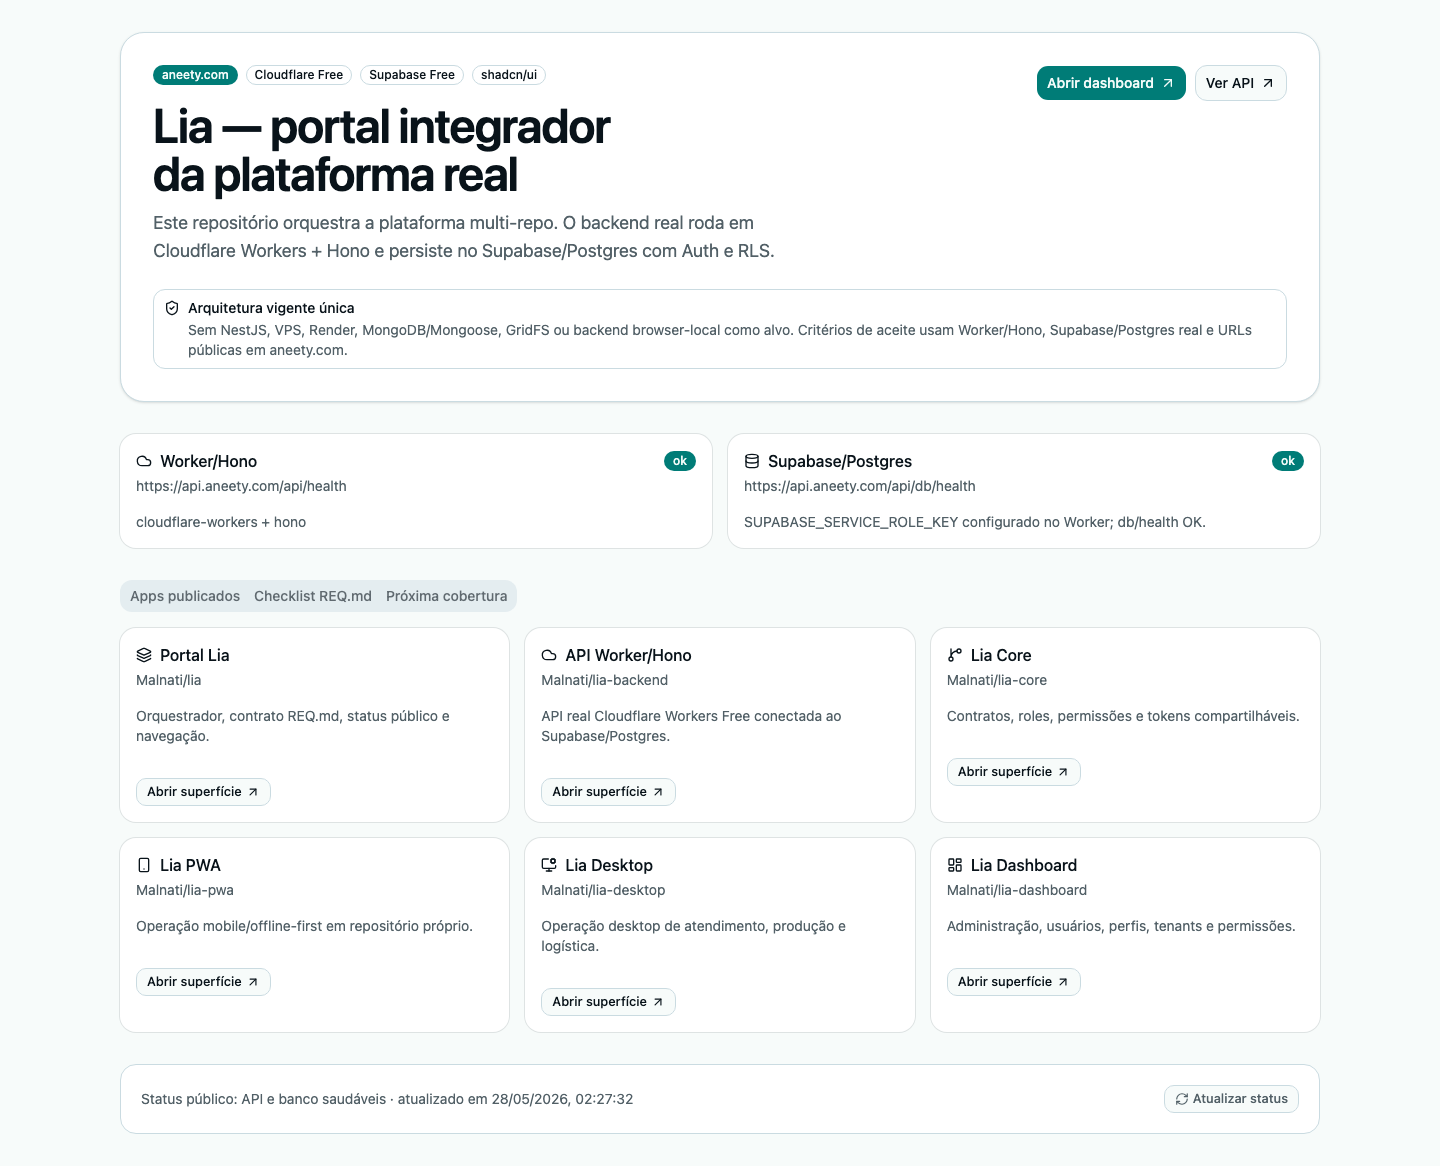
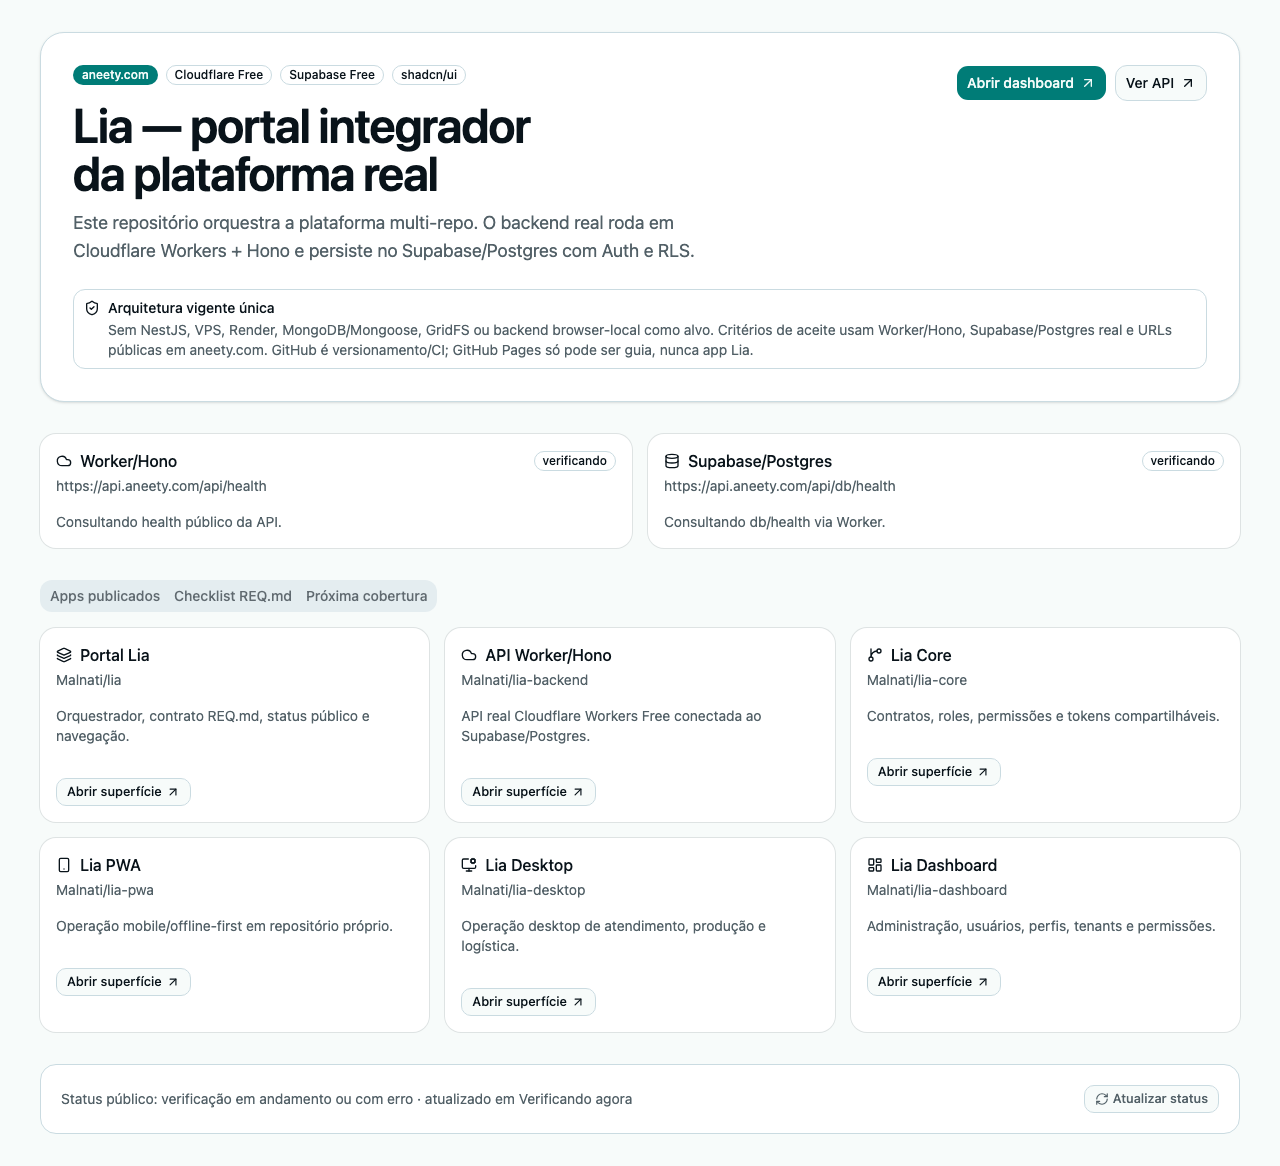
test(runtime): enforce Cloudflare frontend contract

diff --git a/tests/e2e/lia-real-pages.spec.ts b/tests/e2e/lia-real-pages.spec.ts
@@ -7,6 +7,8 @@ const publicApps = [
   { name: 'dashboard', url: 'https://dashboard.aneety.com/', text: /Lia Dashboard/i }
 ];
 
+const forbiddenGitHubRuntime = /github\.io|gh-pages|pages\.github/i;
+
 test('validates the published portal and real Worker health on aneety.com', async ({ page, request }) => {
   await page.goto('/');
 
@@ -28,6 +30,9 @@ test('validates the published portal and real Worker health on aneety.com', asyn
   await page.getByRole('tab', { name: 'Próxima cobertura' }).click();
   await expect(page.getByText('Estados visíveis shadcn para loading, erro, vazio e sucesso.')).toBeVisible();
   await page.getByRole('tab', { name: 'Apps publicados' }).click();
+  for (const href of await page.locator('a').evaluateAll((links) => links.map((link) => link.href))) {
+    expect(href).not.toMatch(forbiddenGitHubRuntime);
+  }
 
   const health = await request.get('https://api.aneety.com/api/health');
   await expect(health).toBeOK();
@@ -45,8 +50,12 @@ test('validates the published portal and real Worker health on aneety.com', asyn
 
 for (const app of publicApps) {
   test(`validates published ${app.name} surface on aneety.com`, async ({ request }) => {
+    expect(app.url).not.toMatch(forbiddenGitHubRuntime);
+    expect(new URL(app.url).hostname).toMatch(/(^|\.)aneety\.com$/);
     const response = await request.get(app.url);
     await expect(response).toBeOK();
+    expect(response.url()).not.toMatch(forbiddenGitHubRuntime);
+    expect(new URL(response.url()).hostname).toMatch(/(^|\.)aneety\.com$/);
     const body = await response.text();
     expect(body).toMatch(app.text);
   });

diff --git a/apps/web/src/App.tsx b/apps/web/src/App.tsx
@@ -99,7 +99,8 @@ const requirements = [
   'API real Cloudflare Workers Free + Hono em api.aneety.com.',
   'Frontends React/Vite/TypeScript/Tailwind com shadcn/ui por repositório.',
   'Publicação independente por repo em aneety.com, sem Containers, VPS ou serviços pagos.',
-  'E2E somente contra URLs públicas aneety.com.'
+  'E2E somente contra URLs públicas aneety.com.',
+  'GitHub é versionamento/CI; GitHub Pages só pode ser guia, nunca app Lia.'
 ];
 
 const nextCoverage = [
@@ -206,7 +207,7 @@ export default function App() {
             <ShieldCheck />
             <AlertTitle>Arquitetura vigente única</AlertTitle>
             <AlertDescription>
-              Sem NestJS, VPS, Render, MongoDB/Mongoose, GridFS ou backend browser-local como alvo. Critérios de aceite usam Worker/Hono, Supabase/Postgres real e URLs públicas em aneety.com.
+              Sem NestJS, VPS, Render, MongoDB/Mongoose, GridFS ou backend browser-local como alvo. Critérios de aceite usam Worker/Hono, Supabase/Postgres real e URLs públicas em aneety.com. GitHub é versionamento/CI; GitHub Pages só pode ser guia, nunca app Lia.
             </AlertDescription>
           </Alert>
         </header>

diff --git a/apps/web/src/App.test.tsx b/apps/web/src/App.test.tsx
@@ -1,4 +1,4 @@
-import { render, screen, waitFor } from '@testing-library/react';
+import { fireEvent, render, screen, waitFor } from '@testing-library/react';
 import { afterEach, beforeEach, describe, expect, it, vi } from 'vitest';
 import App from './App';
 
@@ -63,6 +63,14 @@ describe('Lia portal integrador', () => {
       'https://dashboard.aneety.com/'
     ]) {
       expect(document.querySelector(`a[href="${href}"]`)).toBeTruthy();
+    }
+
+    fireEvent.click(screen.getByRole('tab', { name: 'Checklist REQ.md' }));
+    await waitFor(() =>
+      expect(screen.getByText(/GitHub é versionamento\/CI; GitHub Pages só pode ser guia, nunca app Lia/i)).toBeInTheDocument()
+    );
+    for (const link of Array.from(document.querySelectorAll('a[href]'))) {
+      expect(link.getAttribute('href')).not.toMatch(/github\.io|gh-pages/i);
     }
   });
 });

diff --git a/REQ.md b/REQ.md
@@ -10,7 +10,7 @@ Link de referência inicial: <https://chatgpt.com/share/6a16552b-9da0-83e9-be3f-
 
 `REQ.md` é a fonte de verdade da plataforma Lia. Em caso de divergência entre código, README, automações, testes ou deploys, este arquivo prevalece.
 
-A decisão vigente é única: **Lia deve usar Supabase/Postgres real, Supabase Auth, API real em Cloudflare Workers Free + Hono, frontends estáticos no Cloudflare Pages Free e domínios sob `aneety.com`**. Definições anteriores de protótipo browser-local, MongoDB/Mongoose, NestJS, VPS, Render ou GitHub Pages como arquitetura final estão encerradas. Critérios de aceite devem validar Supabase/Postgres real, Worker `lia-backend` em `https://api.aneety.com`, Cloudflare Pages em `aneety.com` e publicação por repositório.
+A decisão vigente é única: **Lia deve usar Supabase/Postgres real, Supabase Auth, API real em Cloudflare Workers Free + Hono, frontends estáticos no Cloudflare Pages Free e domínios sob `aneety.com`**. GitHub é permitido apenas para versionamento, revisão, PRs e CI. GitHub Pages não pode servir aplicativo, frontend operacional, smoke ou E2E da Lia; se existir, deve publicar somente guias de usuário/documentação. Definições anteriores de protótipo browser-local, MongoDB/Mongoose, NestJS, VPS, Render ou GitHub Pages como arquitetura final estão encerradas. Critérios de aceite devem validar Supabase/Postgres real, Worker `lia-backend` em `https://api.aneety.com`, Cloudflare Pages em `aneety.com` e publicação por repositório.
 
 Atualização operacional de 2026-05-27: o projeto Supabase `mqxwdyhtsvzzehmdfhtj` está conectado ao Codex via MCP usando `SUPABASE_KEY` como PAT local (`bearer_token_env_var`, sem OAuth obrigatório). O banco real recebeu as migrations `0001_initial_schema`, `0002_harden_database_functions` e `0003_add_foreign_key_indexes`. O monitoramento deve tratar esse estado como baseline vigente, não como experimento.
 
@@ -48,6 +48,14 @@ Todos os repositórios devem existir, ser clonados e ser publicados a partir dos
 - `/Users/mal/GitHub/malnati/lia-pwa` — operação mobile/PWA.
 
 Cada projeto deve ser implementado, testado, commitado, enviado e publicado no seu respectivo repositório. O repositório `lia` não deve voltar a concentrar backend, core, dashboard, desktop ou PWA como implementação principal; ele orquestra a plataforma e aponta para os demais apps.
+
+Runtime público obrigatório:
+
+- Aplicação/Frontends/Core: somente Cloudflare Pages Free em domínios `*.aneety.com`.
+- API: somente Cloudflare Workers Free em `https://api.aneety.com`.
+- Código-fonte, PRs e CI: GitHub.
+- Guias de usuário/documentação: GitHub Pages pode existir apenas se não servir app, bundle React/Vite, fluxo operacional, smoke ou E2E.
+- Qualquer URL `github.io`, branch `gh-pages` ou workflow GitHub Pages que publique app é lacuna bloqueante de arquitetura.
 
 ## Stack alvo
 
@@ -334,6 +342,13 @@ Deploy esperado por repo estático:
 - `lia-desktop` → Cloudflare Pages project `lia-desktop`, domínio `desktop.aneety.com`.
 - `lia-dashboard` → Cloudflare Pages project `lia-dashboard`, domínio `dashboard.aneety.com`.
 
+GitHub não é runtime de frontend. Regras:
+
+- Não publicar `lia`, `lia-core`, `lia-pwa`, `lia-desktop` ou `lia-dashboard` como app no GitHub Pages.
+- Não aceitar `github.io`, `gh-pages` ou GitHub Pages app como URL pública, smoke, preview de aceite ou destino de E2E.
+- Se algum repositório mantiver GitHub Pages, o conteúdo deve ser guia de usuário/documentação, com links de uso apontando para `*.aneety.com`.
+- Workflows GitHub Actions podem buildar/testar/deployar para Cloudflare; não podem usar ações de deploy GitHub Pages para apps.
+
 Deploy esperado do backend:
 
 - `lia-backend` → Cloudflare Worker `lia-backend`, custom domain `api.aneety.com`.
@@ -375,6 +390,7 @@ Backend/Supabase:
 E2E publicado:
 
 - E2E alvo deve usar apenas URLs publicadas em `aneety.com` e API/Supabase real;
+- E2E deve falhar se qualquer app, link de navegação, variável de ambiente ou resposta publicada apontar para `github.io`, `gh-pages` ou GitHub Pages como runtime;
 - testes que dependam de rotas, modos ou adaptadores legados do protótipo browser-local não contam como cobertura vigente e devem ser migrados/removidos gradualmente;
 - portal abre todos os links em `aneety.com`;
 - login Supabase;
@@ -399,8 +415,9 @@ O monitoramento deve:
 7. Priorizar lacunas de arquitetura, banco, RLS, migrations, secrets Cloudflare, Worker API e design system shadcn antes de novos E2E.
 8. Não declarar 100% sem evidência objetiva por arquivo/linha, comando, MCP output, URL, workflow ou screenshot.
 9. Validar publicação por repositório: `lia` → `https://aneety.com`, `lia-backend` → `https://api.aneety.com`, `lia-core` → `https://core.aneety.com`, `lia-pwa` → `https://pwa.aneety.com`, `lia-desktop` → `https://desktop.aneety.com` e `lia-dashboard` → `https://dashboard.aneety.com`.
-10. Se faltarem DNS, routes, secrets Cloudflare ou acesso Supabase, registrar bloqueio objetivo e implementar apenas partes sem segredo: REQ, scaffolds, migrations SQL, tipos, testes unitários, shadcn config e docs.
-11. Só ampliar E2E quando REQ, docs, screenshots, smoke, Supabase advisors, Cloudflare deploy, shadcn/design system e E2E vigente estiverem verdes.
+10. Executar grep/validação por `github.io`, `GitHub Pages` e `gh-pages`; qualquer uso como runtime de app bloqueia conclusão. Usos documentais devem declarar explicitamente que GitHub Pages é apenas guia de usuário/documentação.
+11. Se faltarem DNS, routes, secrets Cloudflare ou acesso Supabase, registrar bloqueio objetivo e implementar apenas partes sem segredo: REQ, scaffolds, migrations SQL, tipos, testes unitários, shadcn config e docs.
+12. Só ampliar E2E quando REQ, docs, screenshots, smoke, Supabase advisors, Cloudflare deploy, shadcn/design system e E2E vigente estiverem verdes.
 
 ## Histórico removido do aceite vigente
 

diff --git a/README.md b/README.md
@@ -14,6 +14,8 @@
 
 > Decisão vigente: Cloudflare Pages Free para frontends estáticos, Cloudflare Workers Free + Hono para API, Supabase/Postgres Free para base real. Não usar NestJS, VPS, Render, MongoDB ou mock browser-side como arquitetura alvo.
 
+> GitHub é somente versionamento, PR e CI. GitHub Pages não é runtime de aplicativo Lia; se existir em algum repositório, deve servir apenas guias de usuário/documentação que apontam os apps reais para `*.aneety.com`.
+
 ## Arquitetura alvo
 
 - `Malnati/lia`: portal orquestrador/integrador em `aneety.com` e fonte do contrato `REQ.md`.
@@ -35,6 +37,13 @@ Cada projeto deve ser desenvolvido, testado, commitado, enviado e publicado no s
 - `lia-pwa` — operação mobile/PWA em `https://pwa.aneety.com/`.
 
 O repositório `lia` não deve concentrar backend, core, dashboard, desktop ou PWA como implementação principal.
+
+## Publicação, código e guias
+
+- **Aplicação:** Cloudflare Pages Free em `aneety.com`, `core.aneety.com`, `pwa.aneety.com`, `desktop.aneety.com` e `dashboard.aneety.com`.
+- **API:** Cloudflare Workers Free em `api.aneety.com`.
+- **Código/PR/CI:** GitHub.
+- **Guias de usuário:** GitHub Pages é permitido somente como documentação, nunca como app, smoke ou E2E.
 
 ## Stack
 
@@ -67,6 +76,7 @@ O print abaixo é regenerado quando houver mudança visual no portal.
 
 - [Guia mobile/PWA](docs/MOBILE.md)
 - [Guia desktop/admin](docs/DESKTOP.md)
+- [Matriz de cobertura](docs/COVERAGE_MATRIX.md)
 
 ## Setup local
 
@@ -103,6 +113,7 @@ pnpm build              # build local padrão
 pnpm build:cloudflare   # build para Cloudflare Pages em aneety.com
 pnpm deploy:cloudflare  # deploy local para Cloudflare Pages Free
 pnpm test:e2e           # Playwright contra URL publicada em PLAYWRIGHT_BASE_URL ou aneety.com
+pnpm test:runtime-contract # valida que GitHub Pages não é runtime de app
 ```
 
 ## Deploy Cloudflare Pages Free

diff --git a/docs/COVERAGE_MATRIX.md b/docs/COVERAGE_MATRIX.md
@@ -1,0 +1,19 @@
+# Matriz de cobertura — Lia
+
+`REQ.md` é a fonte de verdade. Esta matriz registra evidência mínima para smoke/E2E e lacunas antes de declarar 100%.
+
+| Requisito | Evidência atual | Status |
+| --- | --- | --- |
+| Runtime único dos frontends | `lia`, `lia-core`, `lia-pwa`, `lia-desktop` e `lia-dashboard` devem publicar apps somente em Cloudflare Pages sob `*.aneety.com`. GitHub fica para versionamento, CI e PR. | Obrigatório |
+| GitHub Pages não é runtime de app | `pnpm test:runtime-contract` deve fazer grep/classificação de `github.io`, `GitHub Pages` e `gh-pages`; workflows de app com GitHub Pages bloqueiam conclusão. | Obrigatório |
+| GitHub Pages como documentação | Permitido apenas para guias de usuário/documentação; páginas assim devem apontar o uso real para `*.aneety.com`. | Permitido com restrição |
+| E2E publicado | Playwright deve usar `aneety.com` e falhar se links/app URLs resolverem para `github.io` ou branch `gh-pages`. | Obrigatório |
+| Guias de usuário | Guias mobile, desktop e dashboard devem explicar que app real roda em Cloudflare Pages e API real em Worker/Hono. | Obrigatório |
+
+## Checklist incremental
+
+1. Validar contrato em `REQ.md`.
+2. Validar workflows dos repositórios locais existentes.
+3. Rodar smoke/teste de contrato anti-GitHub Pages.
+4. Rodar E2E publicado em `aneety.com` quando credenciais e URLs estiverem disponíveis.
+5. Só depois ampliar novas coberturas funcionais/exceções.

diff --git a/docs/DESKTOP.md b/docs/DESKTOP.md
@@ -7,6 +7,8 @@
 - Dashboard administrativo: <https://dashboard.aneety.com/>
 - API real: <https://api.aneety.com/>
 
+GitHub Pages, se existir para este conteúdo, é somente guia de usuário. O aplicativo desktop/admin real roda no Cloudflare Pages em `desktop.aneety.com` e `dashboard.aneety.com`.
+
 ## Fluxo operacional alvo
 
 1. Acessar `desktop.aneety.com`.

diff --git a/docs/MOBILE.md b/docs/MOBILE.md
@@ -5,6 +5,8 @@
 - PWA mobile: <https://pwa.aneety.com/>
 - API real: <https://api.aneety.com/>
 
+GitHub Pages, se existir para este conteúdo, é somente guia de usuário. O PWA real roda no Cloudflare Pages em `pwa.aneety.com`.
+
 ## Fluxo alvo
 
 1. Acessar `pwa.aneety.com` no celular.
